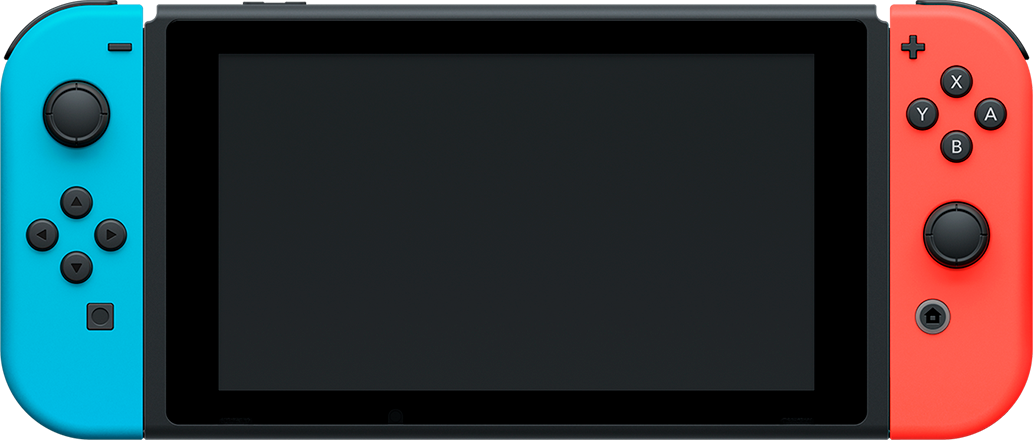
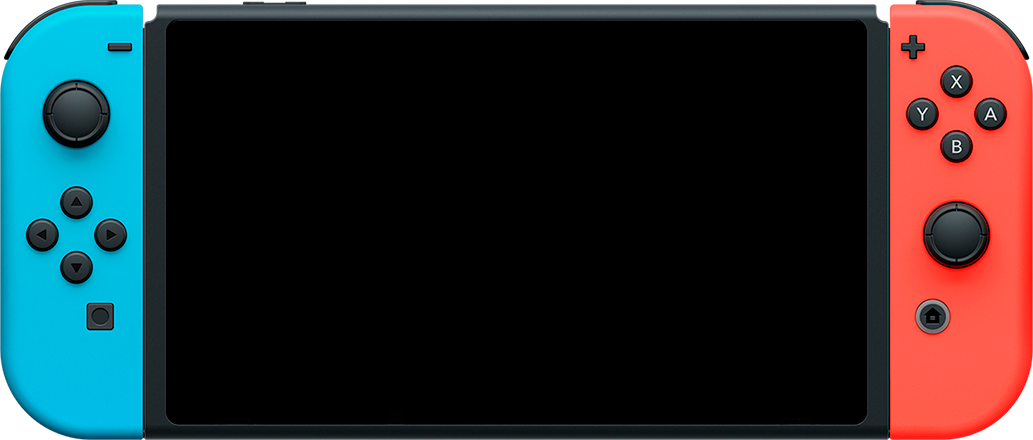
Actualizando.

diff --git a/style.css b/style.css
@@ -30,16 +30,16 @@ main{
     margin: 1rem 5rem 1rem;
     display: flex;
     flex-direction: column;
+    min-height: 900px;
 }
 h1{
     font-family: var(--font-family-logo);
-    font-size: 1rem;
+    font-size: 1.5rem;
 }
 h2, h3, h4{
     font-family: var(--font-family-alt);
     font-weight: var(--font-bold);
     margin: 0.5rem;
-    padding: 0.5rem;
 }
 p{
     font-family: var(--font-family-fst);
@@ -99,22 +99,19 @@ aside p a:hover{
     background-color: var(--color-fst);
     color: var(--color-txt);
     top: 0;
-    position: sticky;
-    z-index: 1;
     width: 100%;
     margin: 0 0 0.5rem 0;
-    padding: 0.5rem 5rem;
     display: flex;
     flex-direction: center;
-    justify-content: center;
-    max-height: 4rem;
+    justify-content: justify;
+    min-height: 2rem;
     box-shadow: var(--color-shad) 0 0.3rem 0.3rem;
 }
 .logo{
     margin: 0.5rem;
-    width: 40%;
+    width: 35%;
     display: flex;
-    justify-content: start;
+    justify-content: center;
     text-align: center;
     align-items: center;
 }
@@ -124,7 +121,6 @@ aside p a:hover{
     display: flex;
     justify-content: space-between;
     align-items: center;
-    padding: 0.5rem;
 }
 .nav-main ul{
     margin: 0.5rem;
@@ -143,19 +139,18 @@ aside p a:hover{
 }
 .btn-nav{
     margin: 0.5rem;
-    padding: 0.5rem 1rem;
+    padding: 0.5rem;
     background-color: var(--color-fst);
     font-weight: var(--font-bold);
+    font-size: 1.5rem;
     color: var(--color-txt);
-    border: 1px solid var(--color-shad);
-    border-radius: 10px;
+    border: 0px;
     cursor: pointer;
     display: inline-block;
 }
-.btn-nav:hover{
-    background-color: var(--color-trd);
+.btn-nav i{
+    display: none;
 }
-
 /*footer*/
 footer{
     background-color: var(--color-snd);
@@ -163,8 +158,8 @@ footer{
     bottom: 0;
     width: 100%;
     margin: 0.5rem 0 0 0;
-    padding: 0.5rem 5rem;
-    max-height: 8rem;
+    padding: 0.5rem;
+    min-height: 8rem;
     display: flex;
     flex-direction: center;
     justify-content: center;
@@ -219,6 +214,9 @@ footer a:hover {
     height: 22rem;
     display: flex;
 }
+.showcase-img{
+    display: none;
+}
 .stn-nota{
     margin: 0.5rem;
     display: flex;
@@ -228,6 +226,7 @@ footer a:hover {
     margin: 0.5rem 2rem;
     display: flex;
     justify-content: center;
+    background-color: var(--color-bg);
 }
 .nota1:hover, .nota2:hover, .nota3:hover {
     background-color: var(--color-txt-alt);
@@ -243,7 +242,7 @@ footer a:hover {
     background-color: var(--color-bg-alt);
     box-shadow: var(--color-shad) 0 0.3rem 0.3rem;
     margin: 0.5rem;
-    width: 20%;
+    width: auto;
     float: left;
 }
 
@@ -335,23 +334,161 @@ footer a:hover {
     text-align: left;
 }
 .form-out{
-    width: 50%;
+    width: 36rem;
     background-color: var(--color-txt-alt);
     border-radius: 0.5rem;
     text-align: center;
     margin: 1rem;
     padding: 1rem 1rem 1rem;
 }
-.form-section{
+.stn-form{
     margin: 0.5rem;
     background-image: url('img/freepng-joysticks.png');
     background-repeat: no-repeat;
     background-position: right top;
 }
 
-/*corte de tablet*/
+/*corte medio*/
 @media only screen and (max-width: 768px) {
+    main{
+        margin: 0.5rem;
+    }
+    h1{
+        font-size: 1.2rem;
+    }
+    /*navegacion*/
+    .logo{
+        margin: 1rem;
+        width: 80%;
+        display: flex;
+        justify-content: start;
+        text-align: center;
+        align-items: center;
+    }
+    .nav-main{
+        display: none;
+    }
+    .btn-nav i{ /*falta acomodar menu*/
+        display: flex;
+        justify-content: end;
+    }
+    /*footer*/
+    .rrss {
+        width: 33%;
+        margin: 0.5rem;
+        display: flex;
+        flex-wrap: wrap;
+    }
+
+    /*index*/
+    .showcase{
+        width: auto;
+        margin: 0.5rem;
+        background-image: url('img/consoles/pngwing-NintendoSwitch2.png');
+        background-repeat: no-repeat;
+        background-position: center;
+        display: flex;
+        justify-content: center;
+        align-items: center;
+        height: 17rem;
+    }
+    .showcase-video iframe{
+        border: #000 5px solid;
+        width: 24rem;
+        height: 14rem;
+        display: flex;
+    }
+    .consola{
+        display: none;
+    }
+    
+    /*contacto*/
+        .form-in{
+        background-image: url('img/freepng-joysticks2.png');
+        background-repeat: no-repeat;
+        background-color: var(--color-bg-alt);
+        border: 1px var(--color-bg-alt) solid;
+        border-radius: 0.5rem;
+        display: flex;
+        flex-direction: column;
+        margin: 1rem;
+    }
+    .form{
+        background-color: var(--color-txt-alt);
+        border: var(--color-txt-alt) 1px solid;
+        border-radius: 0.5rem;
+        margin: 0.5rem;
+    }
+    .form-in p label input, .form-in p label textarea{
+        font-family: var(--font-family-alt);
+        border: 1px solid var(--color-bg-alt);
+        border-radius: 0.5rem;
+        font-size: 1.2rem;
+        justify-content: space-between;
+        display: block;
+    }
+    .form-in p label{
+        display: block;
+    }
+    .form-in p{
+        font-size: 1.2rem;
+        font-weight: var(--font-bold);
+        display: block;
+        text-align: left;
+    }
+    .stn-form{
+        margin: 0.5rem;
+        background-image: url('img/freepng-joysticks.png');
+        background-repeat: no-repeat;
+        background-position: right top;
+    }
 }
-/*corte de mobile*/
-@media only screen and (max-width: 360px) {
+
+/*corte chico*/
+@media only screen and (max-width: 500px) {
+    /*footer*/
+    .icorrss {
+        margin: 0.2rem;
+    }
+    /*navegacion*/
+    .logo{
+        margin: 1rem;
+        width: 70%;
+        display: flex;
+        justify-content: start;
+        text-align: center;
+        align-items: center;
+    }
+    .btn-nav i{ /*falta acomodar menu*/
+        width: 25%;
+        display: flex;
+        justify-content: end;
+    }
+
+    /*index*/
+    .showcase{
+        width: auto;
+        margin: 0.5rem;
+        background-color: var(--color-shad);
+        display: flex;
+        justify-content: center;
+        align-items: center;
+        height: 17rem;
+    }
+    .showcase-video iframe{
+        border: #000 5px solid;
+        width: auto;
+        display: flex;
+    }
+    
+    /*formulario*/
+    .stn-form{
+        background-color: var(--color-bg);
+    }
+    .form-out{
+        width: 100%;
+        border-radius: 0.5rem;
+        text-align: center;
+        margin: 0.2rem;
+    }
 }

diff --git a/index.html b/index.html
@@ -32,14 +32,17 @@
                 <li><a href="gallery.html">Galería</a></li>
                 <li><a href="contacto.html">Contacto</a></li>
             </ul>
-            <button class="btn-nav" id="menu-burger"><i class="fa-solid fa-bars"></i></button>
-        </nav>
+        </nav>    
+        <button class="btn-nav" id="menu-burger"><i class="fa-solid fa-bars"></i></button>
     </header>
     <!--main-->
     <main>
         <header class="showcase">
             <div class="showcase-video">
                 <iframe src="https://www.youtube.com/embed/j1XYbI6JcXI" title="La historia de los videojuegos" allowfullscreen></iframe>
+            </div>
+            <div class="showcase-img">
+                <img src="img/consoles/pngwing-NintendoSwitch1a.png" alt="">
             </div>
         </header>
 

diff --git a/contacto.html b/contacto.html
@@ -40,7 +40,7 @@
         <header class="titulador">
             <h2>Contáctenos</h2>
         </header>
-        <section class="form-section">
+        <section class="stn-form">
             <div class="form-out">
                 <form class="form" name="form-lacapsula" method="get" action="procesar.php">
                     <div class="form-in">
